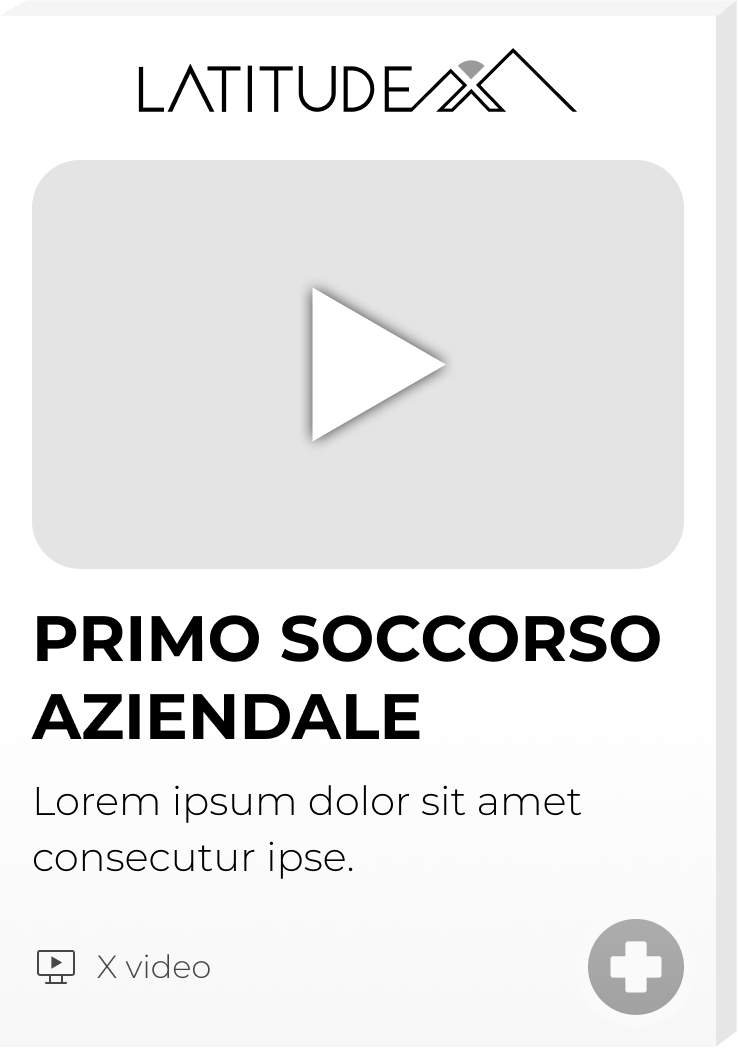
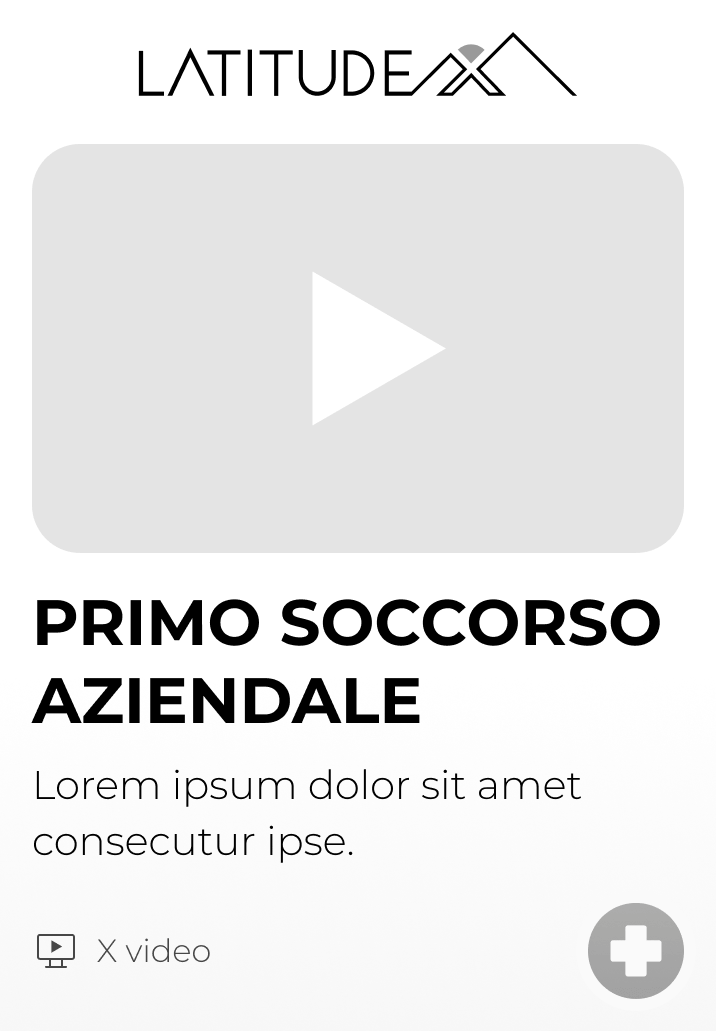
update images

diff --git a/app.config.ts b/app.config.ts
@@ -26,7 +26,7 @@ export default defineAppConfig({
       isActive: true
     },
     {
-      cover: '/copertina-corso-pediatrico.png',
+      cover: '/copertina-corso-di-primo-soccorso-pediatrico.png',
       title: 'Corso di soccorso pediatrico',
       description: 'In programma',
       link: '#',
@@ -38,7 +38,14 @@ export default defineAppConfig({
       description: 'In programma',
       link: '#',
       isActive: false
-    }
+    },
+    {
+      cover: '/copertina-corso-di-primo-soccorso-outdoor.png',
+      title: 'Primo Soccorso Outdoor',
+      description: 'In programma',
+      link: '#',
+      isActive: false
+    },
   ],
   corsiInPresenza: [
     {
@@ -96,29 +103,29 @@ export default defineAppConfig({
       by: 'Nome Cognome'
     },
     {
-      cover: '/recensione-1.jpg',
-      title: '«Grazie al corso, non ho più paura!»',
+      cover: '/recensione-2.jpg',
+      title: '«Ho evitato che mio figlio soffocasse!»',
       description: 'Lorem ipsum dolor sit amet, consectetur adipiscing elit, sed do eiusmod tempor incididunt ut labore et dolore magna aliqua. Ut enim ad minim veniam, quis nostrud exercitation ullamco laboris nisi ut aliquip ex ea commodo consequat.',
       from: 'Instagram',
       by: 'Nome Cognome'
     },
     {
-      cover: '/recensione-1.jpg',
-      title: '«Grazie al corso, non ho più paura!»',
+      cover: '/recensione-3.jpg',
+      title: '«Mi sento più forte accudendo mia madre»',
       description: 'Lorem ipsum dolor sit amet, consectetur adipiscing elit, sed do eiusmod tempor incididunt ut labore et dolore magna aliqua. Ut enim ad minim veniam, quis nostrud exercitation ullamco laboris nisi ut aliquip ex ea commodo consequat.',
       from: 'Instagram',
       by: 'Nome Cognome'
     },
     {
-      cover: '/recensione-1.jpg',
-      title: '«Grazie al corso, non ho più paura!»',
+      cover: '/recensione-4.jpg',
+      title: '«Lorem ipsum dolo sit amet, consecteutur»',
       description: 'Lorem ipsum dolor sit amet, consectetur adipiscing elit, sed do eiusmod tempor incididunt ut labore et dolore magna aliqua. Ut enim ad minim veniam, quis nostrud exercitation ullamco laboris nisi ut aliquip ex ea commodo consequat.',
       from: 'Instagram',
       by: 'Nome Cognome'
     },
     {
-      cover: '/recensione-1.jpg',
-      title: '«Grazie al corso, non ho più paura!»',
+      cover: '/recensione-4.jpg',
+      title: '«Lorem ipsum dolo sit amet, consecteutur»',
       description: 'Lorem ipsum dolor sit amet, consectetur adipiscing elit, sed do eiusmod tempor incididunt ut labore et dolore magna aliqua. Ut enim ad minim veniam, quis nostrud exercitation ullamco laboris nisi ut aliquip ex ea commodo consequat.',
       from: 'Instagram',
       by: 'Nome Cognome'

diff --git a/components/base/BaseCarousel.vue b/components/base/BaseCarousel.vue
@@ -71,7 +71,7 @@
     </Slide>
     <!-- RECENSIONI -->
     <Slide v-if="type === 'recensioni'" v-for="(element, index) in elements" :key="index">
-      <article class="max-w-sm mr-4 pb-4 px-4 pt-36 relative .w-60">
+      <article class="max-w-sm mr-4 pb-4 px-4 pt-52 relative">
         <span class="absolute top-0 left-0 h-full w-full">
           <BaseImage
             aria-hidden="true"
